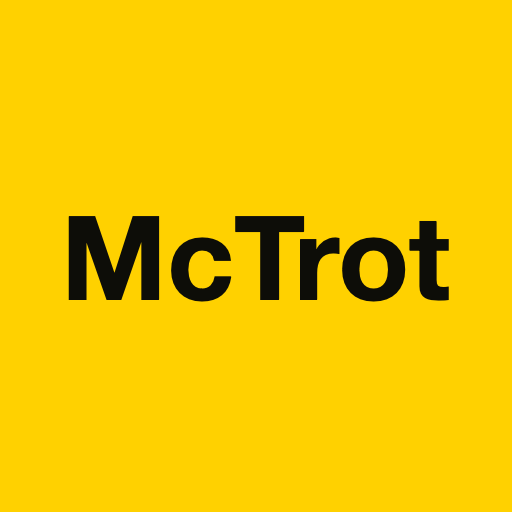
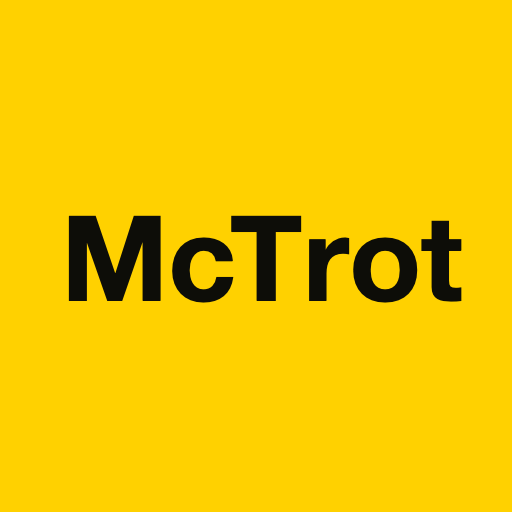
Kern 'c' and 'T' in wordmark

diff --git a/website/preview-studio.html b/website/preview-studio.html
@@ -4,6 +4,7 @@
 <meta charset="UTF-8">
 <meta name="viewport" content="width=device-width, initial-scale=1">
 <title>McTrot — Favicon &amp; Social Preview Studio</title>
+<link rel="stylesheet" href="css/style.css">
 <style>
   :root{
     color-scheme: light dark;
@@ -47,6 +48,9 @@
     font-size: 1.375rem;
     font-weight: 700;
     margin: 0 0 .1rem;
+  }
+  .panel h1 .kern-fix{
+    margin-left: var(--kern-fix);
   }
   .panel .sub{
     margin: 0 0 1.5rem;
@@ -221,7 +225,7 @@
 <body>
 
   <div class="panel">
-    <h1>McTrot</h1>
+    <h1>Mc<span class="kern-fix">Trot</span></h1>
     <p class="sub">Favicon &amp; social preview studio</p>
 
     <label for="text">Text</label>
@@ -289,8 +293,29 @@
 
 <script>
 (function(){
-  const LIGHT = { bg: '#FFD100', ink: '#0D0D08' };
-  const DARK  = { bg: '#E8B800', ink: '#0A0A06' };
+  // Pull the actual palette + font out of css/style.css rather than
+  // duplicating hex values here, so this tool stays in sync with the site.
+  function readTheme(theme){
+    const root = document.documentElement;
+    const prev = root.getAttribute('data-theme');
+    root.setAttribute('data-theme', theme);
+    const cs = getComputedStyle(root);
+    const bg = cs.getPropertyValue('--bg').trim();
+    const ink = cs.getPropertyValue('--ink-1').trim();
+    if (prev === null) root.removeAttribute('data-theme'); else root.setAttribute('data-theme', prev);
+    return {
+      bg: bg || (theme === 'dark' ? '#E8B800' : '#FFD100'),
+      ink: ink || (theme === 'dark' ? '#0A0A06' : '#0D0D08'),
+    };
+  }
+
+  const LIGHT = readTheme('light');
+  const DARK  = readTheme('dark');
+  const FONT_STACK = getComputedStyle(document.documentElement).getPropertyValue('--font').trim()
+    || '"Helvetica Neue", Helvetica, Arial, sans-serif';
+  // Same manual c→T kern nudge used by the site's .wordmark .kern-fix span,
+  // read as a fraction-of-em number so canvas/SVG rendering can apply it too.
+  const KERN_FIX = parseFloat(getComputedStyle(document.documentElement).getPropertyValue('--kern-fix')) || 0;
 
   const state = {
     text: 'McTrot',
@@ -327,7 +352,7 @@
   }
 
   function fontString(size){
-    return `${state.weight} ${size}px "Helvetica Neue", Helvetica, Arial, sans-serif`;
+    return `${state.weight} ${size}px ${FONT_STACK}`;
   }
 
   function measureTracked(ctx, text, size, trackingFrac){
@@ -338,27 +363,65 @@
     return total - trackingFrac * size;
   }
 
-  function fitFontSize(ctx, text, maxW, maxH, trackingFrac){
+  // Splits "McTrot" into "Mc" / "Trot" so the kern nudge can be inserted
+  // between them specifically, leaving tracking of the other pairs alone.
+  function findKernSplit(text){
+    const idx = text.indexOf('cT');
+    return idx === -1 ? -1 : idx + 1;
+  }
+
+  function measureWord(ctx, text, size, trackingFrac, kernFrac){
+    const splitAt = findKernSplit(text);
+    if (splitAt === -1) return measureTracked(ctx, text, size, trackingFrac);
+    const prefix = text.slice(0, splitAt);
+    const suffix = text.slice(splitAt);
+    return measureTracked(ctx, prefix, size, trackingFrac) + kernFrac * size + measureTracked(ctx, suffix, size, trackingFrac);
+  }
+
+  function fitFontSize(ctx, text, maxW, maxH, trackingFrac, kernFrac){
     let lo = 1, hi = Math.max(2, maxH * 1.4);
     for (let i = 0; i < 22; i++){
       const mid = (lo + hi) / 2;
-      const w = measureTracked(ctx, text, mid, trackingFrac);
+      const w = measureWord(ctx, text, mid, trackingFrac, kernFrac);
       if (w > maxW || mid > maxH * 1.15) hi = mid; else lo = mid;
     }
     return lo;
   }
 
-  function drawTracked(ctx, text, cx, cy, size, trackingFrac){
-    ctx.font = fontString(size);
-    const total = measureTracked(ctx, text, size, trackingFrac);
-    let x = cx - total / 2;
+  function drawTrackedFrom(ctx, text, x, y, size, trackingFrac){
+    if (!text) return;
     const prevAlign = ctx.textAlign;
     ctx.textAlign = 'left';
     for (const ch of text){
-      ctx.fillText(ch, x, cy);
+      ctx.fillText(ch, x, y);
       x += ctx.measureText(ch).width + trackingFrac * size;
     }
     ctx.textAlign = prevAlign;
+  }
+
+  function drawWord(ctx, text, cx, cy, size, trackingFrac, kernFrac){
+    ctx.font = fontString(size);
+    const splitAt = findKernSplit(text);
+    if (splitAt === -1){
+      if (Math.abs(trackingFrac) < 0.0001){
+        const prevAlign = ctx.textAlign;
+        ctx.textAlign = 'center';
+        ctx.fillText(text, cx, cy);
+        ctx.textAlign = prevAlign;
+      } else {
+        const total = measureTracked(ctx, text, size, trackingFrac);
+        drawTrackedFrom(ctx, text, cx - total / 2, cy, size, trackingFrac);
+      }
+      return;
+    }
+    const prefix = text.slice(0, splitAt);
+    const suffix = text.slice(splitAt);
+    const prefixW = measureTracked(ctx, prefix, size, trackingFrac);
+    const suffixW = measureTracked(ctx, suffix, size, trackingFrac);
+    const gap = kernFrac * size;
+    const x0 = cx - (prefixW + gap + suffixW) / 2;
+    drawTrackedFrom(ctx, prefix, x0, cy, size, trackingFrac);
+    drawTrackedFrom(ctx, suffix, x0 + prefixW + gap, cy, size, trackingFrac);
   }
 
   function renderIcon(canvas, target){
@@ -386,20 +449,16 @@
     const maxW = Math.max(1, w - pad*2);
     const maxH = Math.max(1, h - pad*2);
     const trackingFrac = state.tracking/100;
+    const kernFrac = KERN_FIX;
 
-    const size = fitFontSize(ctx, text, maxW, maxH, trackingFrac);
+    const size = fitFontSize(ctx, text, maxW, maxH, trackingFrac, kernFrac);
     ctx.font = fontString(size);
     ctx.fillStyle = ink;
     ctx.textBaseline = 'middle';
     const cx = w/2;
     const cy = h/2 + (state.nudge/100) * h;
 
-    if (Math.abs(trackingFrac) < 0.0001){
-      ctx.textAlign = 'center';
-      ctx.fillText(text, cx, cy);
-    } else {
-      drawTracked(ctx, text, cx, cy, size, trackingFrac);
-    }
+    drawWord(ctx, text, cx, cy, size, trackingFrac, kernFrac);
   }
 
   // ---------- SVG ----------
@@ -408,10 +467,10 @@
     return s.replace(/&/g,'&amp;').replace(/</g,'&lt;').replace(/>/g,'&gt;').replace(/"/g,'&quot;');
   }
 
-  function fitFontSizeSvg(text, maxW, maxH, trackingFrac){
+  function fitFontSizeSvg(text, maxW, maxH, trackingFrac, kernFrac){
     const c = document.createElement('canvas');
     const ctx = c.getContext('2d');
-    return fitFontSize(ctx, text, maxW, maxH, trackingFrac);
+    return fitFontSize(ctx, text, maxW, maxH, trackingFrac, kernFrac);
   }
 
   function buildSvg(adaptive){
@@ -420,18 +479,45 @@
     const pad = (state.padding/100) * Math.min(w,h);
     const maxW = w - pad*2, maxH = h - pad*2;
     const trackingFrac = state.tracking/100;
-    const size = fitFontSizeSvg(text, maxW, maxH, trackingFrac);
+    const kernFrac = KERN_FIX;
+    const size = fitFontSizeSvg(text, maxW, maxH, trackingFrac, kernFrac);
     const r = (state.radius/100) * Math.min(w,h) / 2;
     const cy = h/2 + (state.nudge/100) * h;
     const letterSpacingAttr = Math.abs(trackingFrac) > 0.0001
       ? ` letter-spacing="${(trackingFrac*size).toFixed(2)}"` : '';
 
+    const splitAt = findKernSplit(text);
+    let prefix = '', suffix = '', x0 = w/2, prefixW = 0, gap = 0;
+    if (splitAt !== -1){
+      const measureCanvas = document.createElement('canvas');
+      const mctx = measureCanvas.getContext('2d');
+      mctx.font = `${state.weight} ${size}px ${FONT_STACK}`;
+      prefix = text.slice(0, splitAt);
+      suffix = text.slice(splitAt);
+      prefixW = measureTracked(mctx, prefix, size, trackingFrac);
+      const suffixW = measureTracked(mctx, suffix, size, trackingFrac);
+      gap = kernFrac * size;
+      x0 = w/2 - (prefixW + gap + suffixW) / 2;
+    }
+
+    function textMarkup(ink){
+      if (splitAt === -1){
+        return `<text x="${w/2}" y="${cy.toFixed(2)}" text-anchor="middle" dominant-baseline="central" `
+          + `font-family='${FONT_STACK}' font-weight="${state.weight}" `
+          + `font-size="${size.toFixed(2)}"${letterSpacingAttr} fill="${ink}">${escapeXml(text)}</text>`;
+      }
+      return `<text x="${x0.toFixed(2)}" y="${cy.toFixed(2)}" text-anchor="start" dominant-baseline="central" `
+          + `font-family='${FONT_STACK}' font-weight="${state.weight}" `
+          + `font-size="${size.toFixed(2)}"${letterSpacingAttr} fill="${ink}">${escapeXml(prefix)}</text>`
+        + `<text x="${(x0 + prefixW + gap).toFixed(2)}" y="${cy.toFixed(2)}" text-anchor="start" dominant-baseline="central" `
+          + `font-family='${FONT_STACK}' font-weight="${state.weight}" `
+          + `font-size="${size.toFixed(2)}"${letterSpacingAttr} fill="${ink}">${escapeXml(suffix)}</text>`;
+    }
+
     function group(cls, bg, ink){
       return `<g class="${cls}">`
         + `<rect width="${w}" height="${h}" rx="${r.toFixed(2)}" fill="${bg}"/>`
-        + `<text x="${w/2}" y="${cy.toFixed(2)}" text-anchor="middle" dominant-baseline="central" `
-        + `font-family="Helvetica Neue, Helvetica, Arial, sans-serif" font-weight="${state.weight}" `
-        + `font-size="${size.toFixed(2)}"${letterSpacingAttr} fill="${ink}">${escapeXml(text)}</text>`
+        + textMarkup(ink)
         + `</g>`;
     }
 

diff --git a/website/css/style.css b/website/css/style.css
@@ -10,6 +10,7 @@
 
   --font: "Helvetica Neue", Helvetica, Arial, sans-serif;
   --measure: 38rem;
+  --kern-fix: -0.05em;
 }
 
 @media (prefers-color-scheme: dark) {
@@ -105,6 +106,10 @@ button:focus-visible {
   font-weight: 700;
   font-size: 1.375rem;
   color: var(--ink-1);
+}
+
+.wordmark .kern-fix {
+  margin-left: var(--kern-fix);
 }
 
 nav[aria-label="Primary"] ul {

diff --git a/website/index.html b/website/index.html
@@ -31,7 +31,7 @@
 
   <header>
     <div class="wrap header-inner">
-      <a class="wordmark" href="/">McTrot</a>
+      <a class="wordmark" href="/">Mc<span class="kern-fix">Trot</span></a>
       <nav aria-label="Primary">
         <ul>
           <li><a href="/" aria-current="page">Home</a></li>

diff --git a/website/results.html b/website/results.html
@@ -27,7 +27,7 @@
 
   <header>
     <div class="wrap header-inner">
-      <a class="wordmark" href="/">McTrot</a>
+      <a class="wordmark" href="/">Mc<span class="kern-fix">Trot</span></a>
       <nav aria-label="Primary">
         <ul>
           <li><a href="/">Home</a></li>

diff --git a/website/route.html b/website/route.html
@@ -27,7 +27,7 @@
 
   <header>
     <div class="wrap header-inner">
-      <a class="wordmark" href="/">McTrot</a>
+      <a class="wordmark" href="/">Mc<span class="kern-fix">Trot</span></a>
       <nav aria-label="Primary">
         <ul>
           <li><a href="/">Home</a></li>

diff --git a/website/rules.html b/website/rules.html
@@ -27,7 +27,7 @@
 
   <header>
     <div class="wrap header-inner">
-      <a class="wordmark" href="/">McTrot</a>
+      <a class="wordmark" href="/">Mc<span class="kern-fix">Trot</span></a>
       <nav aria-label="Primary">
         <ul>
           <li><a href="/">Home</a></li>
